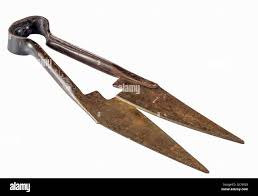
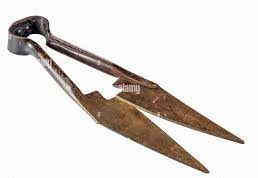
update 2.1.2
+ Added CPU roll for choice
+ Added images instead of text for choice

diff --git a/script.js b/script.js
@@ -7,6 +7,15 @@ const computerWins = document.querySelector("#CPUWins");
 const computerLosses = document.querySelector("#CPULosses");
 const resultOutput = document.querySelector("#result");
 
+//image choice for each option
+const choiceImages = {
+    rock: "images/Rock.jpeg",
+    paper: "images/paper.jpeg",
+    scissors: "images/scissors.jpeg",
+    lizard: "images/Lizard.jpeg",
+    spock: "images/Spock.jpeg"
+};
+
 // Initialize scores and choices
 let hWinsCount = 0;
 let hLossesCount = 0;
@@ -26,16 +35,45 @@ resultOutput.innerHTML = "Result";
 
 // Main function triggered on button click
 function play(event) {
-    // Get the player's choice from the button ID
+    // 1. Disable all buttons during the roll to prevent spamming
+    const allButtons = document.querySelectorAll("button");
+    allButtons.forEach(btn => btn.disabled = true);
+
+    // Get and display the player's choice instantly
     humanChoice = event.target.id;
-    humanOutput.innerHTML = humanChoice;
+    humanOutput.innerHTML = `<img src="${choiceImages[humanChoice]}" class="choice-img" alt="${humanChoice}">`;
 
-    // Generate the computer's choice
-    rdmnum();
-    computerOutput.innerHTML = computerChoice;
+    // Set a temporary rolling state for the results text
+    resultOutput.innerHTML = "Rolling...";
+    
+    // Add the motion blur class to the computer output container
+    computerOutput.classList.add("cpu-rolling");
 
-    // Check who won
-    getResult();
+    let rollCount = 0;
+    const maxRolls = 15; // Number of times it cycles (15 rolls * 70ms = ~1 second total spin)
+
+    // 2. Start the slot machine rolling loop
+    const rollInterval = setInterval(() => {
+        rdmnum(); // Generates a random temporary computerChoice
+        
+        // Flash the temporary random image on the screen
+        computerOutput.innerHTML = `<img src="${choiceImages[computerChoice]}" class="choice-img" alt="${computerChoice}">`;
+        rollCount++;
+
+        // 3. When the rolling time finishes:
+        if (rollCount >= maxRolls) {
+            clearInterval(rollInterval); // Stop the loop
+
+            // Remove the blur class so the final image snaps sharp
+            computerOutput.classList.remove("cpu-rolling");
+
+            // Run your logic on the final locked-in choice
+            getResult();
+
+            // Re-enable the buttons for the next round
+            allButtons.forEach(btn => btn.disabled = false);
+        }
+    }, 70); // Updates the image every 70 milliseconds
 }
 
 // Generates a random choice for the computer

diff --git a/style.css b/style.css
@@ -19,7 +19,8 @@
 /* Center column specific styling */
 .middle-side {
     justify-content: center;
-    align-self: center; /* Centers the middle section vertically */
+    align-self: flex-start; /* Centers the middle section vertically */
+    margin-top: 300px; /* Adjusts vertical alignment with the images */
 }
 
 /* Button container layout */
@@ -53,3 +54,21 @@ h2 {
     border-bottom: 2px solid #333;
 }
 
+/* Keeps the added hand images sized correctly inside the columns */
+.choice-img {
+    width: 177px;          /* Increased size slightly so they stand out */
+    height: 177px;         /* Explicit height locks them into a perfect square */
+    object-fit: cover;     /* Crops different aspect ratios to fill the box nicely */
+    border-radius: 8px;    /* Adds clean rounded corners to the images */
+    box-shadow: 0 4px 8px rgba(0,0,0,0.1); /* Optional subtle shadow for depth */
+    display: block;
+    margin: 15px auto 0 auto;
+}
+
+/* Motion blur effect for the image during the CPU roll */
+.cpu-rolling img {
+    filter: blur(4px) grayscale(0.3);
+    transform: scale(0.95);
+    opacity: 0.8;
+    transition: filter 0.05s ease;
+}

diff --git a/index.html b/index.html
@@ -27,6 +27,8 @@
 
         <!-- Middle column: Action buttons and game outcome -->
         <div class="column middle-side">
+            <!-- Displays the winner of the current round -->
+            <p class="result-text">Result: <span id="result">Result</span></p>
             <!-- Container for the playable buttons -->
             <div class="buttons">
                 <button id="rock">Rock</button>
@@ -35,8 +37,6 @@
                 <button id="lizard">Lizard</button>
                 <button id="spock">Spock</button>
             </div>
-            <!-- Displays the winner of the current round -->
-            <p class="result-text">Result: <span id="result">Result</span></p>
         </div>
 
         <!-- Right column: Computer stats and choices -->
@@ -49,6 +49,13 @@
 
     </div>
 
+    <svg style="display: none;">
+        <defs>
+            <filter id="smear-filter">
+                <feGaussianBlur stdDeviation="0 10" />
+            </filter>
+        </defs>
+    </svg>
     <!-- Links the external JavaScript file containing game logic -->
     <script src="script.js"></script>
 </body>